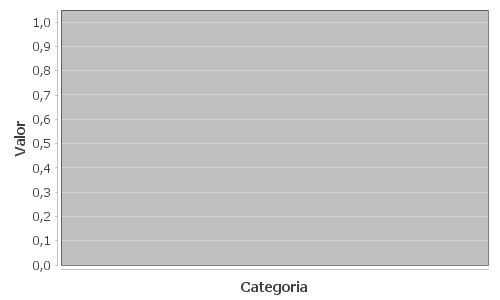
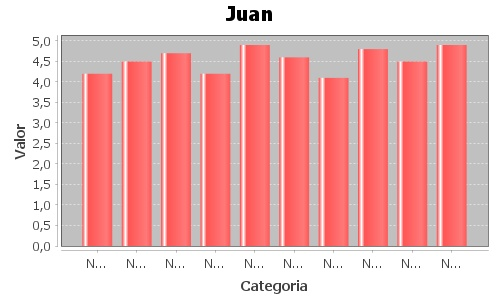
AÑAÑAI

diff --git a/src/guia5/Promedios.java b/src/guia5/Promedios.java
@@ -5,6 +5,7 @@
 package guia5;
 
 import com.jtattoo.plaf.acryl.AcrylLookAndFeel;
+
 import com.jtattoo.plaf.aluminium.AluminiumLookAndFeel;
 import com.jtattoo.plaf.hifi.HiFiLookAndFeel;
 import static java.lang.Integer.parseInt;
@@ -21,6 +22,8 @@ import java.io.File;
 import java.io.FileWriter;
 import java.text.SimpleDateFormat;
 import java.util.Date;
+import javax.swing.ImageIcon;
+import javax.swing.JLabel;
 import javax.swing.UnsupportedLookAndFeelException;
 import javax.swing.plaf.nimbus.NimbusLookAndFeel;
 
@@ -75,8 +78,9 @@ public class Promedios extends javax.swing.JFrame {
         mostrarHistorico = new javax.swing.JButton();
         export = new javax.swing.JButton();
         guardarGrafico = new javax.swing.JCheckBox();
-        jLabel7 = new javax.swing.JLabel();
         Salir = new javax.swing.JButton();
+        jLabel5 = new javax.swing.JLabel();
+        jLabel6 = new javax.swing.JLabel();
 
         datosTabla.setBackground(java.awt.Color.lightGray);
         try {
@@ -256,7 +260,6 @@ public class Promedios extends javax.swing.JFrame {
                     .addGroup(javax.swing.GroupLayout.Alignment.TRAILING, jPanel1Layout.createParallelGroup(javax.swing.GroupLayout.Alignment.BASELINE)
                         .addComponent(mostrarHistorico, javax.swing.GroupLayout.PREFERRED_SIZE, 48, javax.swing.GroupLayout.PREFERRED_SIZE)
                         .addComponent(export, javax.swing.GroupLayout.PREFERRED_SIZE, 48, javax.swing.GroupLayout.PREFERRED_SIZE)))
-                .addPreferredGap(javax.swing.LayoutStyle.ComponentPlacement.RELATED)
                 .addComponent(guardarGrafico)
                 .addGap(18, 18, 18))
         );
@@ -334,9 +337,6 @@ public class Promedios extends javax.swing.JFrame {
                 .addContainerGap())
         );
 
-        jLabel7.setFont(new java.awt.Font("Hack Nerd Font Propo", 0, 18)); // NOI18N
-        jLabel7.setText("Historico:");
-
         Salir.setText("Salir");
         Salir.addActionListener(new java.awt.event.ActionListener() {
             public void actionPerformed(java.awt.event.ActionEvent evt) {
@@ -344,26 +344,36 @@ public class Promedios extends javax.swing.JFrame {
             }
         });
 
+        jLabel5.setPreferredSize(new java.awt.Dimension(500, 300));
+
+        jLabel6.setPreferredSize(new java.awt.Dimension(500, 300));
+
         javax.swing.GroupLayout layout = new javax.swing.GroupLayout(getContentPane());
         getContentPane().setLayout(layout);
         layout.setHorizontalGroup(
             layout.createParallelGroup(javax.swing.GroupLayout.Alignment.LEADING)
-            .addGroup(layout.createSequentialGroup()
-                .addComponent(jPanel2, javax.swing.GroupLayout.PREFERRED_SIZE, javax.swing.GroupLayout.DEFAULT_SIZE, javax.swing.GroupLayout.PREFERRED_SIZE)
-                .addPreferredGap(javax.swing.LayoutStyle.ComponentPlacement.RELATED)
-                .addComponent(jLabel7)
-                .addContainerGap(412, Short.MAX_VALUE))
             .addGroup(javax.swing.GroupLayout.Alignment.TRAILING, layout.createSequentialGroup()
-                .addGap(0, 0, Short.MAX_VALUE)
-                .addComponent(Salir, javax.swing.GroupLayout.PREFERRED_SIZE, 110, javax.swing.GroupLayout.PREFERRED_SIZE)
+                .addGroup(layout.createParallelGroup(javax.swing.GroupLayout.Alignment.TRAILING)
+                    .addGroup(layout.createSequentialGroup()
+                        .addComponent(jPanel2, javax.swing.GroupLayout.PREFERRED_SIZE, javax.swing.GroupLayout.DEFAULT_SIZE, javax.swing.GroupLayout.PREFERRED_SIZE)
+                        .addPreferredGap(javax.swing.LayoutStyle.ComponentPlacement.RELATED)
+                        .addGroup(layout.createParallelGroup(javax.swing.GroupLayout.Alignment.LEADING)
+                            .addComponent(jLabel5, javax.swing.GroupLayout.PREFERRED_SIZE, javax.swing.GroupLayout.DEFAULT_SIZE, javax.swing.GroupLayout.PREFERRED_SIZE)
+                            .addComponent(jLabel6, javax.swing.GroupLayout.PREFERRED_SIZE, javax.swing.GroupLayout.DEFAULT_SIZE, javax.swing.GroupLayout.PREFERRED_SIZE))
+                        .addGap(0, 10, Short.MAX_VALUE))
+                    .addGroup(layout.createSequentialGroup()
+                        .addGap(0, 0, Short.MAX_VALUE)
+                        .addComponent(Salir, javax.swing.GroupLayout.PREFERRED_SIZE, 110, javax.swing.GroupLayout.PREFERRED_SIZE)))
                 .addGap(40, 40, 40))
         );
         layout.setVerticalGroup(
             layout.createParallelGroup(javax.swing.GroupLayout.Alignment.LEADING)
-            .addGroup(javax.swing.GroupLayout.Alignment.TRAILING, layout.createSequentialGroup()
-                .addGap(368, 368, 368)
-                .addComponent(jLabel7)
-                .addGap(324, 324, 324)
+            .addGroup(layout.createSequentialGroup()
+                .addContainerGap()
+                .addComponent(jLabel5, javax.swing.GroupLayout.PREFERRED_SIZE, javax.swing.GroupLayout.DEFAULT_SIZE, javax.swing.GroupLayout.PREFERRED_SIZE)
+                .addPreferredGap(javax.swing.LayoutStyle.ComponentPlacement.UNRELATED)
+                .addComponent(jLabel6, javax.swing.GroupLayout.PREFERRED_SIZE, javax.swing.GroupLayout.DEFAULT_SIZE, javax.swing.GroupLayout.PREFERRED_SIZE)
+                .addGap(721, 721, 721)
                 .addComponent(Salir, javax.swing.GroupLayout.PREFERRED_SIZE, 37, javax.swing.GroupLayout.PREFERRED_SIZE)
                 .addContainerGap(javax.swing.GroupLayout.DEFAULT_SIZE, Short.MAX_VALUE))
             .addComponent(jPanel2, javax.swing.GroupLayout.DEFAULT_SIZE, javax.swing.GroupLayout.DEFAULT_SIZE, Short.MAX_VALUE)
@@ -447,8 +457,11 @@ public class Promedios extends javax.swing.JFrame {
             }
         }
         Graficas.CrearGuardarGrafica(nombre, notas,guardarGrafico.isSelected()); //los datos viajan al main para generar la imagen
-        //System.out.println(notas);
-        //System.out.println(nombre)
+        ImageIcon ImagenEstudiante = new ImageIcon("D:\\ALEJO\\Documents\\Estudiante.jpg");
+//        ImageIcon ImagenEstudiante = new ImageIcon("");
+//ponga su direccion para guardar las imagenes y pone mi direccion en comentarios
+        ImagenEstudiante.getImage().flush();
+        this.jLabel6.setIcon(ImagenEstudiante);
     }//GEN-LAST:event_mostrarHistoricoActionPerformed
 
     private void calcularDefinitivasActionPerformed(java.awt.event.ActionEvent evt) {//GEN-FIRST:event_calcularDefinitivasActionPerformed
@@ -560,6 +573,11 @@ public class Promedios extends javax.swing.JFrame {
 
     private void GraficoTortaActionPerformed(java.awt.event.ActionEvent evt) {//GEN-FIRST:event_GraficoTortaActionPerformed
         Graficas.torta(aprobo, reprobo, totEst);
+        ImageIcon ImagenTorta = new ImageIcon("D:\\ALEJO\\Documents\\TORTA.jpg");
+//        ImageIcon ImagenTorta = new ImageIcon("");
+//ponga su direccion para guardar las imagenes y pone mi direccion en comentarios
+        ImagenTorta.getImage().flush();
+        this.jLabel5.setIcon(ImagenTorta);
     }//GEN-LAST:event_GraficoTortaActionPerformed
 
     private void SalirActionPerformed(java.awt.event.ActionEvent evt) {//GEN-FIRST:event_SalirActionPerformed
@@ -569,6 +587,7 @@ public class Promedios extends javax.swing.JFrame {
      * @param args the command line arguments
      */
     public static void main(String args[]) {
+        boolean nimbusSet = false;
         /* Set the Nimbus look and feel */
         //<editor-fold defaultstate="collapsed" desc=" Look and feel setting code (optional) ">
         /* If Nimbus (introduced in Java SE 6) is not available, stay with the default look and feel.
@@ -578,6 +597,7 @@ public class Promedios extends javax.swing.JFrame {
             for (javax.swing.UIManager.LookAndFeelInfo info : javax.swing.UIManager.getInstalledLookAndFeels()) {
                 if ("Nimbus".equals(info.getName())) {
                     javax.swing.UIManager.setLookAndFeel(info.getClassName());
+                    
                     break;
                 }
             }
@@ -592,17 +612,19 @@ public class Promedios extends javax.swing.JFrame {
         }
         //</editor-fold>
         //</editor-fold>
-
+        
         /* Create and display the form */
         java.awt.EventQueue.invokeLater(new Runnable() {
             public void run() {
+            if (!nimbusSet) {
                 try {
                     UIManager.setLookAndFeel(new AcrylLookAndFeel());
                 } catch (UnsupportedLookAndFeelException ex) {
                     Logger.getLogger(Promedios.class.getName()).log(Level.SEVERE, null, ex);
                 }
-                new Promedios().setVisible(true);
             }
+            new Promedios().setVisible(true);
+        }
         });
     }
     
@@ -621,7 +643,8 @@ public class Promedios extends javax.swing.JFrame {
     private javax.swing.JLabel jLabel2;
     private javax.swing.JLabel jLabel3;
     private javax.swing.JLabel jLabel4;
-    private javax.swing.JLabel jLabel7;
+    private javax.swing.JLabel jLabel5;
+    private javax.swing.JLabel jLabel6;
     private javax.swing.JPanel jPanel1;
     private javax.swing.JPanel jPanel2;
     private javax.swing.JScrollPane jScrollPane1;
@@ -633,4 +656,10 @@ public class Promedios extends javax.swing.JFrame {
     private javax.swing.JTextArea numeroNot;
     private javax.swing.JTable tablaDefinitivas;
     // End of variables declaration//GEN-END:variables
+
+    private static class JLabel5 {
+
+        public JLabel5() {
+        }
+    }
 }

diff --git a/src/guia5/Graficas.java b/src/guia5/Graficas.java
@@ -11,6 +11,7 @@ import org.jfree.chart.ChartUtilities;
 import org.jfree.chart.JFreeChart;
 import org.jfree.chart.plot.PlotOrientation;
 import org.jfree.data.category.DefaultCategoryDataset;
+import org.jfree.data.general.DefaultPieDataset;
 
 public class Graficas {
     public static void CrearGuardarGrafica(String nombre, LinkedList<Double> notas, Boolean guardar){
@@ -19,14 +20,15 @@ public class Graficas {
         DefaultCategoryDataset dataset = new DefaultCategoryDataset();
         int CantidadNotas = notas.size();
         for (int i = 0; i < CantidadNotas; i++) {
+            int m=i+1;
             Double ValorNota = notas.get(i);
-            dataset.setValue(ValorNota, "Profit", "Nota"+i);
+            dataset.setValue(ValorNota, "Profit", ""+m );
         }
-        JFreeChart chart = ChartFactory.createBarChart( nombre, "Categoria", "Valor", dataset, PlotOrientation.VERTICAL,
+        JFreeChart chart = ChartFactory.createBarChart( nombre, "Nota", "Valor", dataset, PlotOrientation.VERTICAL,
         false, true, false);
 
         try {
-            ChartUtilities.saveChartAsJPEG(new File("imagenes/Estudiante.jpg"), chart, 500, 300);
+            ChartUtilities.saveChartAsJPEG(new File("D:\\ALEJO\\Documents\\Estudiante.jpg"), chart, 500, 300);
         } 
         catch (IOException e) {
             System.err.println("Hubo un problema al generar la grafica.");
@@ -38,7 +40,7 @@ public class Graficas {
             SimpleDateFormat Formato = new SimpleDateFormat("yyyyMMdd_HHmmss");
             Date Datos = new Date();
             String strDate = Formato.format(Datos);
-            String GuarNombre = userHome + "\\Pictures\\Historico de " + nombre + strDate + ".jpg";
+            String GuarNombre = userHome + "D:\\ALEJO\\Documents\\Estudiante " + nombre + strDate + ".jpg";
             try {
                 ChartUtilities.saveChartAsJPEG(new File(GuarNombre), chart, 500, 300);
                 System.out.println("Gráfico guardado como: " + GuarNombre);
@@ -51,9 +53,28 @@ public class Graficas {
     }
     public static void torta(double paso, double reprobo, double total){
         double porPaso=0, porRepro=0;//porcentajes
-        porPaso=(paso/total);//si necesita el numero en porcentajes multiplique por 100
-        porRepro=(reprobo/total);
+        porPaso=((paso/total)*100);//si necesita el numero en porcentajes multiplique por 100
+        porRepro=((reprobo/total)*100);
         System.out.println(porPaso);
         System.out.println(porRepro);
+        DefaultPieDataset pieDataset = new DefaultPieDataset();
+        pieDataset.setValue("APROBADOS " + porPaso +"%", porPaso); // Usar directamente el valor double
+        pieDataset.setValue("REPROBADOS " + porRepro +"%", porRepro); // Usar directamente el valor double
+        JFreeChart chart = ChartFactory.createPieChart
+        ("TASA DE MORTALIDAD", // Title
+        pieDataset, // Dataset
+        true, // Show legend
+        true, // Use tooltips
+        false // Configure chart to generate URLs?
+        );
+        try {
+            ChartUtilities.saveChartAsJPEG(new File("D:\\ALEJO\\Documents\\TORTA.jpg"), chart, 500, 300);
+//            ChartUtilities.saveChartAsJPEG(new File(""), chart, 500, 300);
+//ponga su direccion para guardar las imagenes y pone mi direccion en comentarios
+            
+        } 
+        catch (Exception e) {
+            System.out.println("Problem occurred creating chart.");
+        }
     }
 }
